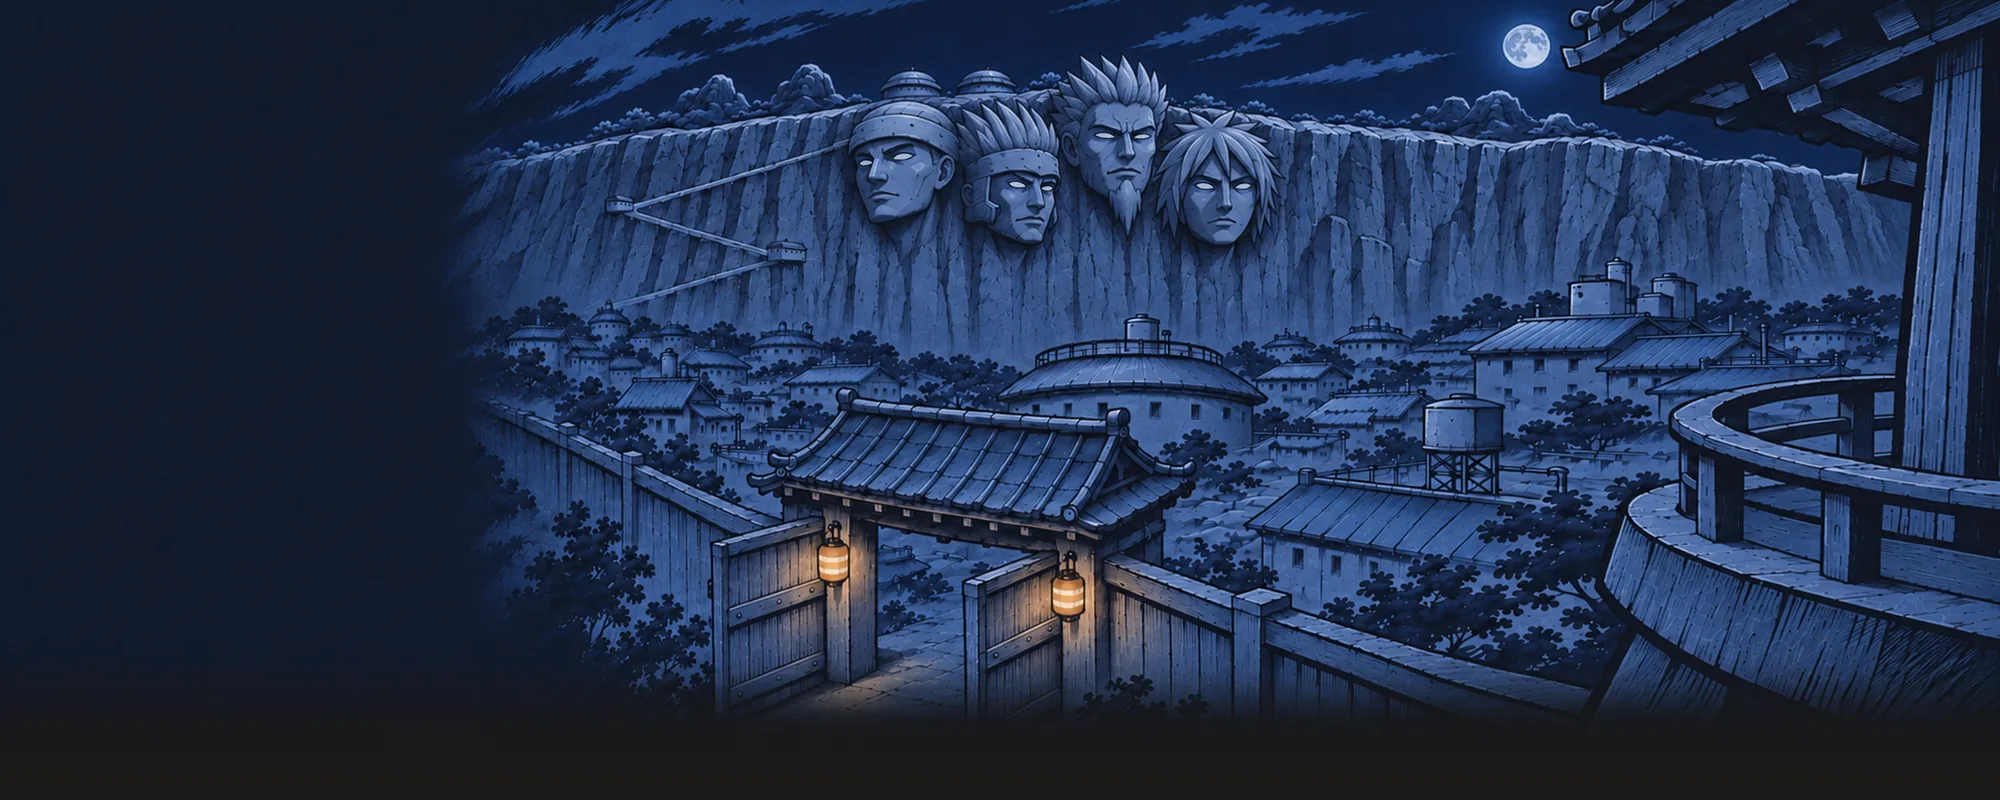
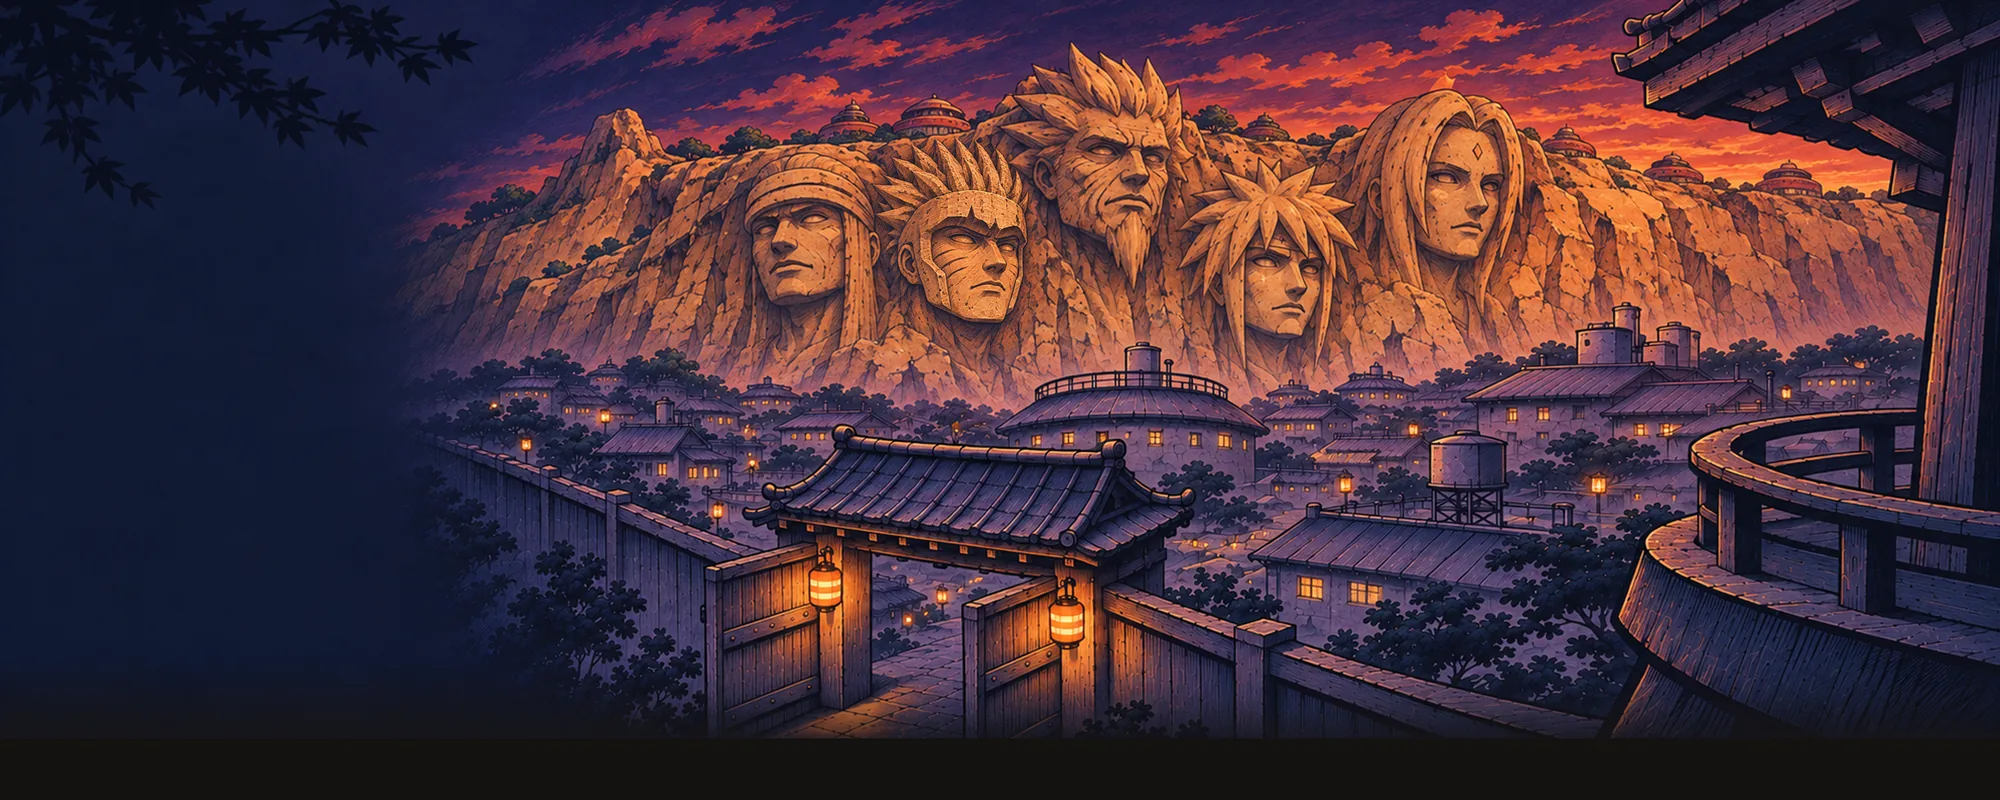
Portão: Monte Hokage ao pôr do sol; letreiro sob os rostos no celular e no desktop

diff --git a/prototype/styles/shinobi/detalhes.css b/prototype/styles/shinobi/detalhes.css
@@ -372,7 +372,8 @@ body.at-gate main:has(.jmodes) { width: 100%; max-width: var(--shell-max); paddi
 .jmodes .gate-banner .gate-hero img { object-position: var(--fx) var(--fy); filter: none; }
 .jmodes .gate-banner .gate-hero::after { display: none; }
 .gate.jmodes .gate-banner .gate-hero::before { background: none; }
-.gate.jmodes .gate-head { left: 5%; top: 15%; width: auto; }
+/* O letreiro fica embaixo dos rostos do Monte Hokage, sobre os telhados: no alto ele cobria os rostos. */
+.gate.jmodes .gate-head { left: 5%; top: 46%; width: auto; }
 .gate.jmodes .gate-head .logo {
   height: auto; font: 400 var(--fs-brand)/.98 var(--font-display);
   color: var(--paper); text-shadow: var(--title-shadow); transform: rotate(-4deg);
@@ -497,6 +498,8 @@ body.at-gate main:has(.jmodes) { width: 100%; max-width: var(--shell-max); paddi
   .gate.jmodes .gate-banner { height: 100%; }
   .gate.jmodes .gate-aside { grid-template-columns: 1fr 1fr; align-items: stretch; }
   .jmodes .ninja-id { grid-template-columns: minmax(80px, .75fr) 1fr; margin-top: var(--sp-3); }
+  /* Faixa larga: a pintura aparece inteira e a faixa escura da esquerda comporta o letreiro no alto. */
+  .gate.jmodes .gate-head { top: 15%; }
 }
 @media (min-width: 1024px) {
   body.at-gate { --side-w: clamp(118px, 10vw, 160px); }
@@ -512,7 +515,7 @@ body.at-gate main:has(.jmodes) { width: 100%; max-width: var(--shell-max); paddi
   .jmodes .ninja-id { grid-template-columns: 1fr; justify-items: center; text-align: center; }
   .jmodes .ninja-name, .jmodes .ninja-record summary { justify-content: center; }
   .jmodes .ninja-id .avatar-btn { width: min(90%, 21vh); }
-  .gate.jmodes .gate-head { top: 18%; }
+  .gate.jmodes .gate-head { top: 50%; }
   .gate.jmodes .mode-txt { min-height: calc(var(--fs-6xl) * 1.1 + var(--fs-md) * 2.7 + var(--gap)); }
   .jmodes .desk-recent li { grid-template-columns: auto minmax(0, 1fr); gap: var(--sp-1) var(--sp-2); }
   .jmodes .desk-recent li .ach-ico { grid-row: span 2; align-self: start; }

diff --git a/prototype/art.ts b/prototype/art.ts
@@ -274,7 +274,7 @@ export const villageCrest = (id: keyof typeof VILLAGES): string => svg(VILLAGES[
 export interface SceneArt { file?: string; focus?: readonly [x: number, y: number] }
 const DEFAULT_FOCUS: readonly [number, number] = [50, 35];
 export const SCENE_ART: Record<string, SceneArt> = {
-  portao: { focus: [44, 40] },
+  portao: { focus: [62, 35] },
   // Os pôsteres pertencem à escolha da perspectiva da História.
   'perspectiva-naruto': { file: 'dia', focus: [64, 62] },
   'perspectiva-sasuke': { file: 'noite', focus: [30, 58] },

diff --git a/docs/visual.md b/docs/visual.md
@@ -163,7 +163,7 @@ O código pede a arte por **chave**, e um mapa único (`SCENE_ART` em `prototype
 
 | Chave | Arquivo hoje | Onde | Sem a imagem |
 |---|---|---|---|
-| `portao` | `portao.webp` | O portão da vila e o monte dos rostos à noite, em tinta índigo com as lanternas acesas | Cena SVG de Konoha |
+| `portao` | `portao.webp` | O portão da vila e o Monte Hokage (os cinco rostos) ao pôr do sol, céu em brasa e sombras índigo, lanternas acesas | Cena SVG de Konoha |
 | `perspectiva-naruto`, `perspectiva-sasuke` | `dia`, `noite` | Pôsteres das perspectivas da História | Painel de perspectiva |
 | `jornada` | `jornada` | Banner da entrada da Jornada | Cena de Konoha |
 | `modo-jornada`, `modo-roleta` | os mesmos | Arte dos cards de modo (`modo-jornada`: o Time 7 de costas sobre o telhado, em tinta laranja) | Emblema em aquarela |
@@ -178,7 +178,7 @@ O código pede a arte por **chave**, e um mapa único (`SCENE_ART` em `prototype
 
 ### Cena do Portão
 
-O letreiro ocupa a faixa escura à esquerda, livre na pintura. O foco mantém o monte dos rostos e o portão visíveis nos recortes estreitos; em 360 px o letreiro encosta no primeiro rosto. O modo Animado acrescenta névoa e vaga-lumes.
+O Monte Hokage é o centro da pintura e nada o cobre. No tablet (768 a 1023 px), a pintura aparece inteira e o letreiro fica no alto da faixa escura da esquerda; no celular e no desktop, onde essa faixa não comporta o letreiro, ele desce para baixo dos rostos, sobre os telhados. O foco mantém os cinco rostos e o portão nos recortes estreitos. O modo Animado acrescenta névoa e vaga-lumes.
 
 ### Roleta no PC
 

diff --git a/changelog.d/portao-ninshu.md b/changelog.d/portao-ninshu.md
@@ -1,4 +1,4 @@
 ---
 peso: alto
 ---
-**Portão da Vila e Registro do ninja.** Toque no pergaminho de Arcade, História ou Campanha para entrar no modo. A Ficha agora aparece também no celular. O Registro reúne Histórico, Livro Bingo, Relíquias e Conquistas em páginas próprias. Para retomar uma Jornada salva, abra a aba do modo no Histórico e toque em **Continuar**. Avatar e nome se editam direto na Ficha, com um toque. A escolha de avatar ganhou os personagens dos arcos da História e os vilões que você já enfrentou, e mostra em silhueta os que faltam. Esc e o botão voltar do celular fecham a janela ou a página aberta. O Portão ganhou uma pintura nova, com o portão da vila e o monte dos rostos à noite, e o card da História mostra o Time 7.
+**Portão da Vila e Registro do ninja.** Toque no pergaminho de Arcade, História ou Campanha para entrar no modo. A Ficha agora aparece também no celular. O Registro reúne Histórico, Livro Bingo, Relíquias e Conquistas em páginas próprias. Para retomar uma Jornada salva, abra a aba do modo no Histórico e toque em **Continuar**. Avatar e nome se editam direto na Ficha, com um toque. A escolha de avatar ganhou os personagens dos arcos da História e os vilões que você já enfrentou, e mostra em silhueta os que faltam. Esc e o botão voltar do celular fecham a janela ou a página aberta. O Portão ganhou uma pintura nova, com o portão da vila e o Monte Hokage ao pôr do sol, e o card da História mostra o Time 7.
